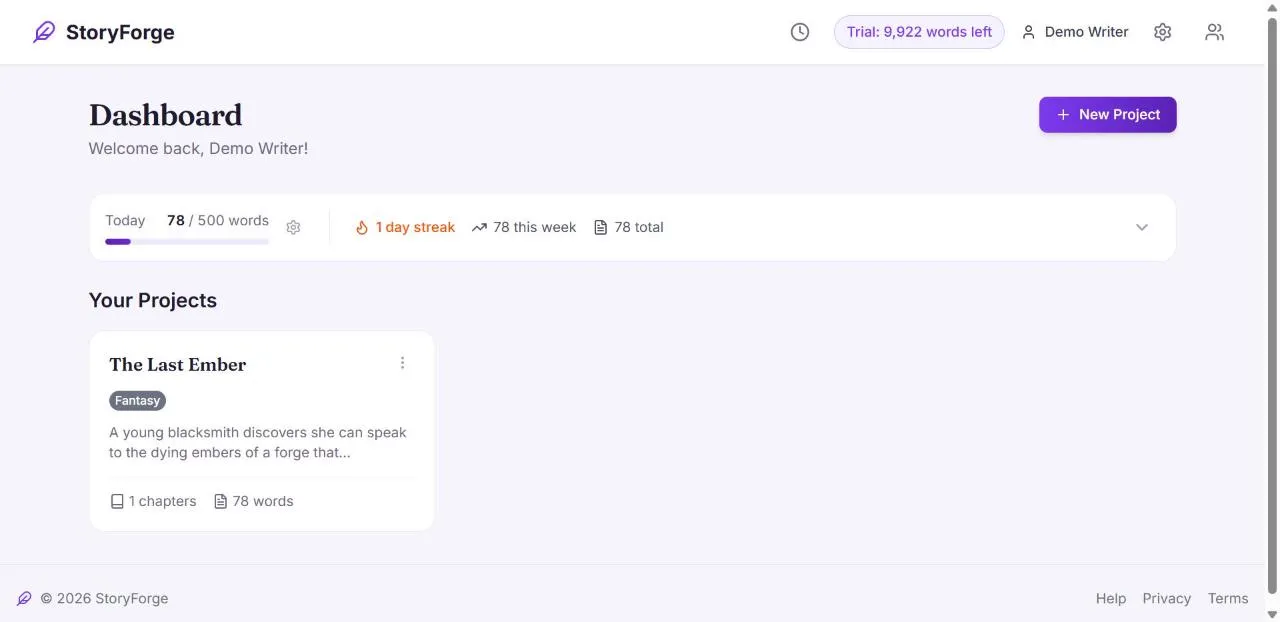
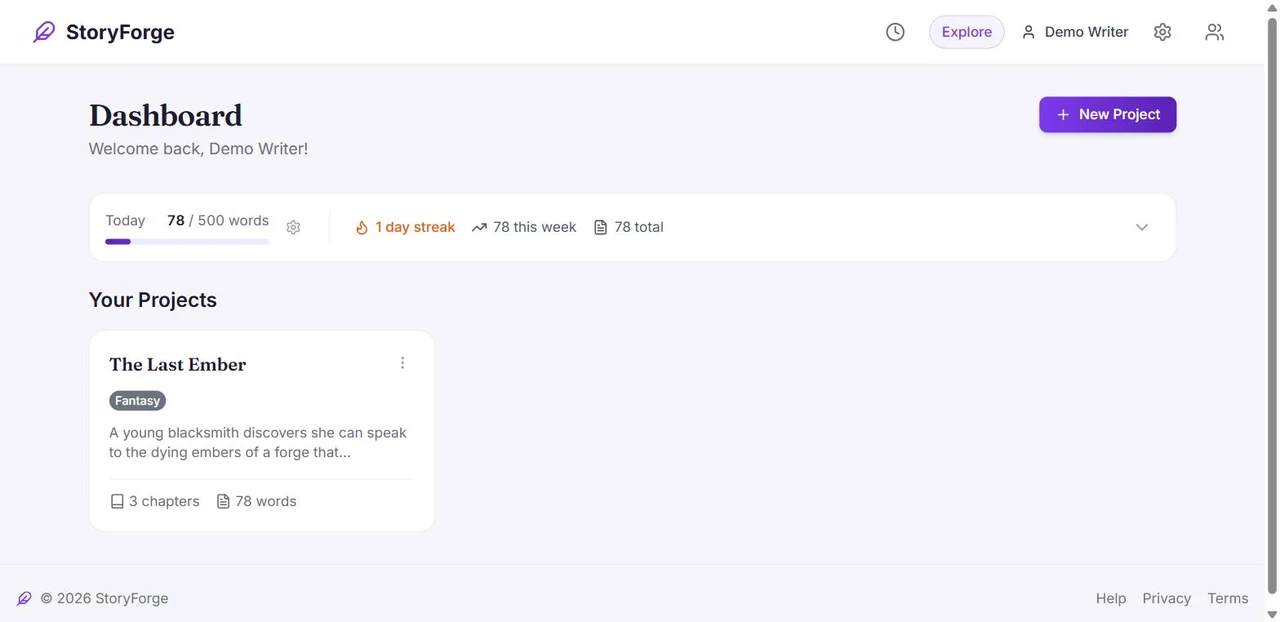
Update store copy for the new licensing model, bump versions
pdfsign, Resume Maker and Ink Lifter dropped their free-export trial in
favour of always-free editing with exporting gated behind a licence;
StoryForge replaced its word/project trial with a 15-minute Explore
window that starts at your first project. Rewrite the store's trial
language app-by-app (tryShort/tryLong/licenseFaq in products.js) instead
of the one-size-fits-all "free trial" copy, update the licence terms,
and refresh StoryForge's screenshots to match the current UI.

Versions: pdfsign 1.0.1, Resume Maker 1.0.1, Ink Lifter 1.0.1,
StoryForge 1.1.1.

diff --git a/src/data/products.js b/src/data/products.js
@@ -12,9 +12,10 @@ export const DOWNLOADS = 'https://github.com/KelvinGitu/yarp-downloads/releases/
 
 export const SUPPORT_EMAIL = 'yarpdevelopers@gmail.com';
 
-// Each app's free trial, as the store describes it: `trialShort` under the
-// Download button, `trialLong` in "How it works". Keep in step with each app
-// (license.FREE_EXPORTS, or StoryForge's core/trial.py).
+// Each app's free-to-licensed line, as the store describes it: `tryShort`
+// under the Download button, `tryLong` in "How it works", `licenseFaq` in
+// Questions. Keep in step with each app (app/license.py, or StoryForge's
+// core/explore.py and desktop/config.py's EXPLORE_DAYS).
 
 export const products = [
   {
@@ -22,12 +23,13 @@ export const products = [
     name: 'pdfsign',
     tagline: 'Fill, sign and mark up PDFs without uploading them anywhere.',
     price: '€9.99',
-    version: '1.0.0',
+    version: '1.0.1',
     download: `${DOWNLOADS}/pdfsign-setup.exe`,
     size: '21 MB',
-    trialShort: '3 free exports, then a key',
-    trialLong: 'Everything works; the first 3 PDFs you save are free.',
-    whereIsLicence: 'the key icon at the bottom left, labelled Trial',
+    tryShort: 'Free to fill and sign; a key unlocks saving',
+    tryLong: 'Fill in and sign as many documents as you like. Saving the finished PDF is the only thing that needs a licence key.',
+    licenseFaq: 'You can open, fill in and sign documents for as long as you like. Saving a finished PDF needs a licence key.',
+    whereIsLicence: 'the key icon at the bottom left, labelled Unlicensed',
     description:
       'Contracts, forms, rental agreements, tax papers: the documents you sign are the ones you least want on ' +
       "someone else's server. pdfsign opens them on your own computer, lets you sign, fill in and tidy them up, and " +
@@ -55,12 +57,13 @@ export const products = [
     name: 'Resume Maker',
     tagline: 'Write your resume once, set it in seven styles, and export a clean PDF.',
     price: '€9.99',
-    version: '1.0.0',
+    version: '1.0.1',
     download: `${DOWNLOADS}/ResumeMaker-setup.exe`,
     size: '20 MB',
-    trialShort: '3 free exports, then a key',
-    trialLong: 'Everything works; the first 3 PDFs you export are free.',
-    whereIsLicence: 'the Trial button at the top right',
+    tryShort: 'Free to edit and preview; a key unlocks exporting',
+    tryLong: 'Edit and preview as many resumes as you like. Exporting a PDF is the only thing that needs a licence key.',
+    licenseFaq: 'You can edit and preview for as long as you like. Exporting a PDF needs a licence key.',
+    whereIsLicence: 'the Unlicensed button at the top right',
     description:
       "A resume holds your address, your phone number and your whole work history. Resume Maker keeps it on your " +
       'computer: edit on the left, watch the page update on the right, switch between seven designs, and export a ' +
@@ -88,12 +91,13 @@ export const products = [
     name: 'StoryForge',
     tagline: 'A writing studio for novels and stories, with a story bible that keeps it all straight.',
     price: '€24.99',
-    version: '1.1.0',
+    version: '1.1.1',
     download: `${DOWNLOADS}/StoryForge-setup.exe`,
     size: '33 MB',
-    trialShort: '10,000 free words, then a key',
-    trialLong: 'Everything works for one project and your first 10,000 words. After that your writing stays yours to read, edit and export; a key lets you keep adding.',
-    whereIsLicence: 'the Trial button at the top right, or Settings → Licence & data',
+    tryShort: 'Free to explore, no licence needed at first',
+    tryLong: "Creating your first project starts a short window to try every feature and write a little. After that your writing stays yours to read, edit and export; a licence key lets you keep adding.",
+    licenseFaq: "Creating your first project starts a short window (about 15 minutes) to explore every feature, across every profile on the computer. After that, your writing stays exactly as it is — readable, editable and exportable — but a licence key is needed to start a new project or add to what you have.",
+    whereIsLicence: 'the Explore button at the top right, or Settings → Licence & data',
     description:
       'Your draft is the most personal thing you own. StoryForge keeps it on your computer: write chapter by ' +
       'chapter with version history, keep characters, places and the rules of your world in a story bible, plan ' +
@@ -126,12 +130,13 @@ export const products = [
     name: 'Ink Lifter',
     tagline: 'Lift signatures, stamps and handwriting off a photo of paper, onto a transparent background.',
     price: '€4.99',
-    version: '1.0.0',
+    version: '1.0.1',
     download: `${DOWNLOADS}/InkLifter-setup.exe`,
     size: '19 MB',
-    trialShort: '10 free exports, then a key',
-    trialLong: 'Everything works; the first 10 images you save, copy or export are free.',
-    whereIsLicence: 'the Trial button at the top right',
+    tryShort: 'Free to open and preview; a key unlocks saving',
+    tryLong: 'Open, clean up and preview as many photos as you like. Saving, copying or exporting an image is the only thing that needs a licence key.',
+    licenseFaq: 'You can open, clean up and preview images for as long as you like. Saving, copying or exporting one needs a licence key.',
+    whereIsLicence: 'the Unlicensed button at the top right',
     description:
       'Snap your signature, a company stamp or a hand-drawn sketch with your phone, and Ink Lifter turns it into ' +
       'a clean transparent PNG you can drop into a document, a slide or a website. It reads the paper around every ' +

diff --git a/src/pages/store/[slug].js b/src/pages/store/[slug].js
@@ -29,7 +29,7 @@ export default function StoreProduct({ product }) {
       <div className="store-product">
         {cancelled && (
           <p className="detail-note" role="status">
-            Checkout was cancelled, and nothing was charged. The free trial is still yours to download.
+            Checkout was cancelled, and nothing was charged. {product.name} is still yours to download and try.
           </p>
         )}
 
@@ -58,8 +58,8 @@ export default function StoreProduct({ product }) {
           <a className="store-btn store-btn-download" href={product.download}>
             <DownloadIcon />
             <span>
-              <span className="store-btn-main">Download free trial</span>
-              <span className="store-btn-sub">{product.trialShort}</span>
+              <span className="store-btn-main">Download</span>
+              <span className="store-btn-sub">{product.tryShort}</span>
             </span>
           </a>
           <BuyButton product={product.slug} price={product.price} />
@@ -95,7 +95,7 @@ export default function StoreProduct({ product }) {
           <h2 className="detail-section-title">How buying works</h2>
           <ol className="store-steps">
             <li>
-              <strong>Try it.</strong> Download and install the free trial. {product.trialLong}
+              <strong>Try it.</strong> Download and install — no payment needed. {product.tryLong}
             </li>
             <li>
               <strong>Buy a licence</strong> ({product.price}, paid through Stripe). Your licence key arrives by email a moment later.
@@ -132,10 +132,8 @@ export default function StoreProduct({ product }) {
               </p>
             </details>
             <details>
-              <summary>What happens after the free exports?</summary>
-              <p>
-                You can keep opening and editing as much as you like. Saving new PDFs needs a licence key.
-              </p>
+              <summary>What's free, and what needs a licence?</summary>
+              <p>{product.licenseFaq}</p>
             </details>
             <details>
               <summary>Can I use my key on more than one computer?</summary>
@@ -150,7 +148,7 @@ export default function StoreProduct({ product }) {
             <details>
               <summary>What if it doesn’t work for me?</summary>
               <p>
-                Email within 30 days of buying and you’ll get a full refund. The free trial is there so you can check first.
+                Email within 30 days of buying and you’ll get a full refund. It's free to try, so you can check first.
               </p>
             </details>
             <details>

diff --git a/src/pages/store/terms.js b/src/pages/store/terms.js
@@ -8,8 +8,8 @@ const paragraphs = [
   '1. The licence',
   'Buying pdfsign, Resume Maker, StoryForge or Ink Lifter gets you a personal licence key for that app; a bundle key covers all four. You may install and use the app on computers you own or use yourself. A licence for a business covers one person. Please don’t share or publish your key.',
   'The licence doesn’t expire, and the app keeps working without contacting us. It covers the version you bought and the updates we publish for that major version.',
-  '2. The free trial',
-  'Every download is a free trial, and the app works fully during it. pdfsign and Resume Maker: the first three PDFs you save are free; after that, saving needs a licence key, and opening and editing keep working. StoryForge: one project and 10,000 words on a computer are free; after that a key is needed to add more, and everything you wrote stays readable, editable and exportable. Ink Lifter: the first 10 images you save, copy or export are free; after that, saving needs a licence key, and opening and previewing keep working.',
+  '2. Trying before you buy',
+  'Every download works before you pay. pdfsign and Resume Maker: opening, filling in and editing are always free; saving or exporting a PDF needs a licence key. Ink Lifter: opening and previewing are always free; saving, copying or exporting an image needs a licence key. StoryForge: creating your first project on a computer starts a short window (about 15 minutes) in which everything works; after that, a key is needed to start another project or add to what you have, and everything you wrote stays readable, editable and exportable.',
   '3. Refunds',
   'If the app doesn’t work for you, email us within 30 days of buying and we’ll refund you in full. This doesn’t affect any rights you have under the law where you live.',
   '4. No warranty',
@@ -23,5 +23,5 @@ const paragraphs = [
 ];
 
 export default function StoreTerms() {
-  return <PolicyPage title="Licence terms: the Yarp desktop apps" paragraphs={paragraphs} lastUpdated="September 22, 2026" />;
+  return <PolicyPage title="Licence terms: the Yarp desktop apps" paragraphs={paragraphs} lastUpdated="September 23, 2026" />;
 }

diff --git a/src/pages/store/index.js b/src/pages/store/index.js
@@ -24,8 +24,8 @@ export default function Store() {
             nowhere else. No account, no cloud, and they work with the internet switched off.
           </p>
           <p className="store-lede store-lede-small">
-            Each one is a single payment, and every download starts as a free trial, so you can try it on your own
-            files first.
+            Each one is a single payment, and every download works before you buy, so you can try it on your own
+            files first — see each app's page for exactly what's free.
           </p>
           <StorePromises />
         </header>
@@ -52,7 +52,7 @@ export default function Store() {
                 <img src={`/assets/store/${p.slug}/${p.shots[0].file}`} alt="" width={1440} height={900} loading="lazy" />
               </Link>
               <div className="store-item-links">
-                <Link href={`/store/${p.slug}`} className="detail-btn-legal">Details and free trial</Link>
+                <Link href={`/store/${p.slug}`} className="detail-btn-legal">Details and download</Link>
               </div>
             </li>
           ))}

diff --git a/functions/products.js b/functions/products.js
@@ -12,22 +12,22 @@ const APPS = {
   pdfsign: {
     name: "pdfsign",
     download: `${DOWNLOADS}/pdfsign-setup.exe`,
-    whereIsLicence: "click the key icon at the bottom left, labelled Trial",
+    whereIsLicence: "click the key icon at the bottom left, labelled Unlicensed",
   },
   "resume-maker": {
     name: "Resume Maker",
     download: `${DOWNLOADS}/ResumeMaker-setup.exe`,
-    whereIsLicence: "click the Trial button at the top right",
+    whereIsLicence: "click the Unlicensed button at the top right",
   },
   storyforge: {
     name: "StoryForge",
     download: `${DOWNLOADS}/StoryForge-setup.exe`,
-    whereIsLicence: "click the Trial button at the top right, or open Settings, then Licence & data",
+    whereIsLicence: "click the Explore button at the top right, or open Settings, then Licence & data",
   },
   "ink-lifter": {
     name: "Ink Lifter",
     download: `${DOWNLOADS}/InkLifter-setup.exe`,
-    whereIsLicence: "click the Trial button at the top right",
+    whereIsLicence: "click the Unlicensed button at the top right",
   },
 };
 

diff --git a/src/pages/store/success.js b/src/pages/store/success.js
@@ -87,8 +87,12 @@ export default function StoreSuccess() {
                 <strong>Open the Licence window</strong>:{' '}
                 {downloads.length === 1
                   ? <>{downloads[0].whereIsLicence}.</>
-                  : <>the key icon at the bottom left in pdfsign; the “Trial” button at the top right in Resume Maker
-                    and StoryForge.</>}
+                  : <>{downloads.map((p, i) => (
+                      <span key={p.slug}>
+                        {i > 0 && (i === downloads.length - 1 ? '; and ' : '; ')}
+                        in {p.name}, {p.whereIsLicence}
+                      </span>
+                    ))}.</>}
               </li>
               <li>
                 <strong>Paste the key and click Unlock.</strong> It’s checked on your computer, so it works offline from now on.
